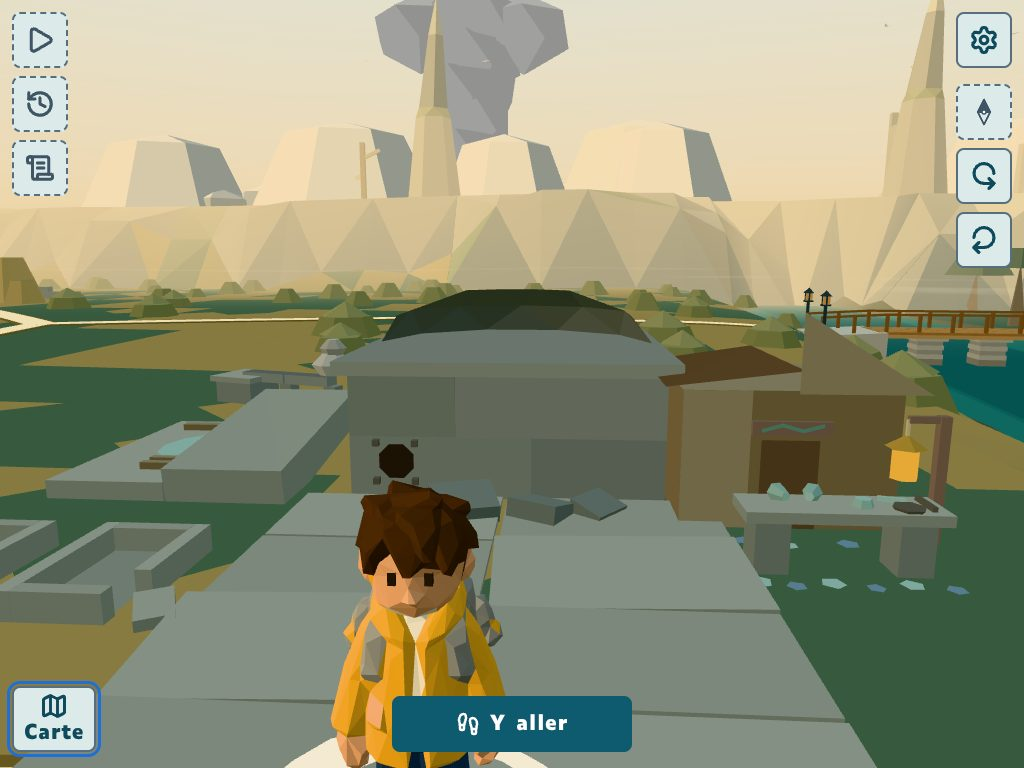
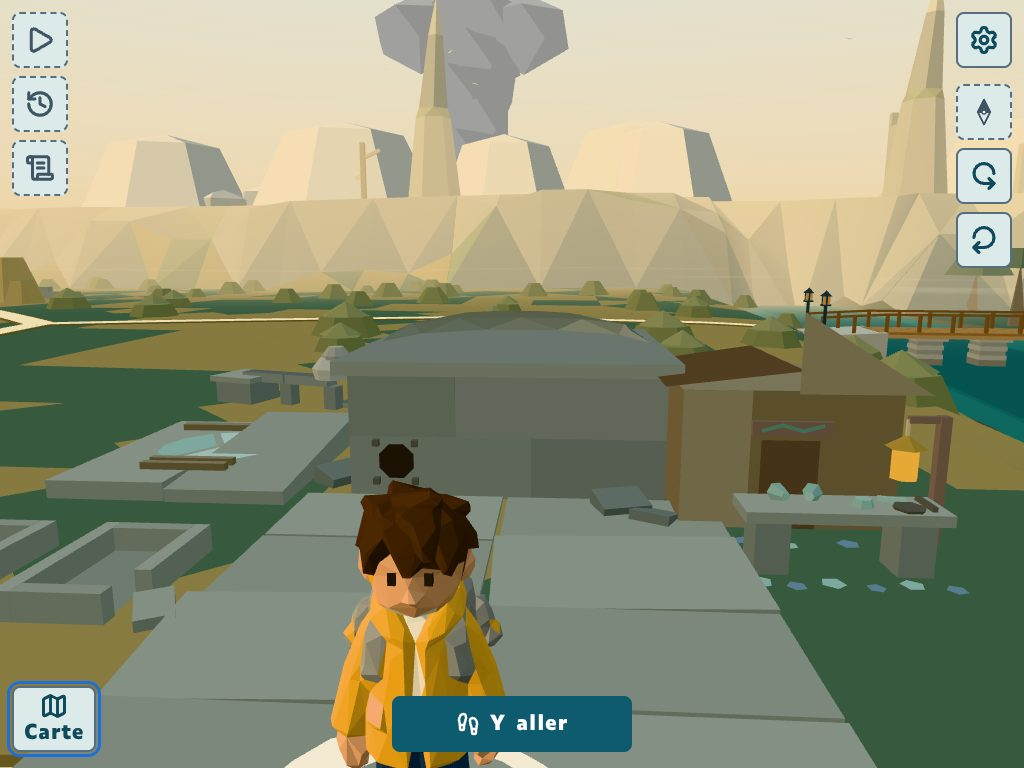
Captures du lot 10 du 5e : l’Étuve après la retouche 1

Changed region(s): [[0.1562, 0.4375, 0.3438, 0.6562], [0.375, 0.375, 0.625, 0.4375], [0.4375, 0.625, 0.6562, 0.6875]]

diff --git a/gd22-lot10-5e/archipeo/comparaison.md b/gd22-lot10-5e/archipeo/comparaison.md
@@ -1,10 +1,11 @@
 # Lot 10 du 5e : l’Étuve (GD-22)
 
-Captures prises en local (rendu logiciel, 1024 × 768 ; le téléphone en 390 × 844, OpenDyslexic au plus grand texte) sur le commit 117a7780, dans Archipéo, monde ouvert du 5e (`?monde=ouvert`). Toutes les vues sont nouvelles : le lieu n’existait que comme ruine générique (un tambour rond).
+Captures prises en local (rendu logiciel, 1024 × 768 ; le téléphone en 390 × 844, OpenDyslexic au plus grand texte) sur le commit f402315c (retouche 1 ; la première série, sur 117a7780, est dans l’historique de la branche), dans Archipéo, monde ouvert du 5e (`?monde=ouvert`). Toutes les vues sont nouvelles : le lieu n’existait que comme ruine générique (un tambour rond).
 
 - `00` : la planche validée par le mainteneur (`selection-etuve-v2`).
 - `01` : la ruine (aucune mission réussie), de la porte, de près, de dos, de trois quarts.
 - `02` à `04` : après le corps, le haut, puis les abords (lieu restauré).
+- `04-restaure-la-lentille` : la lentille et son chevalet, de près.
 - `05` : le lieu restauré de dos et de trois quarts.
 - `06` : la scénette, en ruine et restaurée.
 - `07` : la scénette sur téléphone au plus grand texte.
